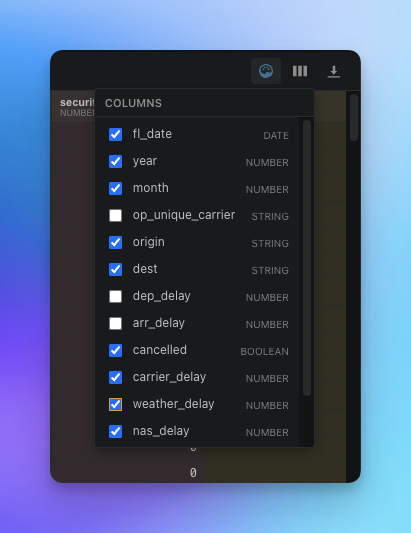
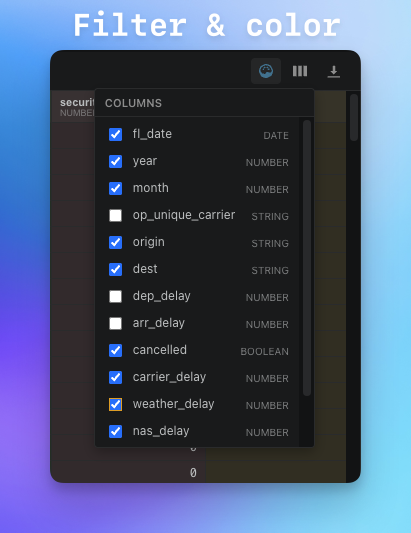
chore: readme [skip release]

Changed region(s): [[0.1752, 0.0, 0.4672, 0.0901], [0.5839, 0.0, 0.8175, 0.0901], [0.4964, 0.03, 0.5547, 0.0901]]

diff --git a/README.md b/README.md
@@ -2,15 +2,11 @@
 
 **The fast data grid for VS Code.** Open CSV, Parquet, Arrow, Excel, JSON, SQLite, Avro and ORC files as an interactive spreadsheet — sort, filter, search, edit and color-code columns without ever leaving the editor.
 
-<table align="center" width="100%"><tr>
-  <td align="center" width="48%"><strong>Without Grid Master</strong></td>
-  <td width="4%"></td>
-  <td align="center" width="48%"><strong>With Grid Master</strong></td>
-</tr><tr>
-  <td align="center"><img src="assets/before.png" alt="Without Grid Master" width="100%" /></td>
-  <td></td>
-  <td align="center"><img src="assets/after2.png" alt="With Grid Master" width="100%" /></td>
-</tr></table>
+<p align="center">
+  <img src="assets/before.png" alt="Without Grid Master" width="48%" />
+  &nbsp;&nbsp;
+  <img src="assets/after.png" alt="With Grid Master" width="48%" />
+</p>
 
 
 ---
@@ -70,34 +66,18 @@
   <img src="assets/demo.gif" alt="Grid Master demo" width="80%" />
 </p>
 
-<!--
-  DEMO VIDEO / GIF: place one file in the assets/ folder:
-    assets/demo.gif   (recommended, ≤ 8 MB, ~10–20 seconds)
-  Or for video on GitHub: replace the <img> above with:
-    <video src="assets/demo.mp4" autoplay loop muted width="80%"></video>
-  Note: VS Marketplace and Open VSX do not play <video> — use GIF for broadest compatibility.
--->
 
 ---
 
 ## Details
 
-<table align="center" width="100%"><tr>
-  <td align="center" width="48%"><strong>Sort</strong></td>
-  <td width="4%"></td>
-  <td align="center" width="48%"><strong>Filter &amp; color</strong></td>
-</tr><tr>
-  <td align="center"><img src="assets/sort.png" alt="Sort columns" width="100%" /></td>
-  <td></td>
-  <td align="center"><img src="assets/filter.png" alt="Filter and color columns" width="100%" /></td>
-</tr></table>
+<p align="center">
+  <img src="assets/sort.png" alt="Sort columns" width="48%" />
+  &nbsp;&nbsp;
+  <img src="assets/filter.png" alt="Filter and color columns" width="48%" />
+</p>
 
-<!--
-  DETAIL SCREENSHOTS: place two PNG files in the assets/ folder:
-    assets/screenshot-sort.png     (e.g. a column sorted ascending/descending)
-    assets/screenshot-filter.png  (e.g. filter panel open + column colors active)
-  Recommended: 1280×800 px, PNG, ≤ 300 KB each.
--->
+
 
 ---
 
